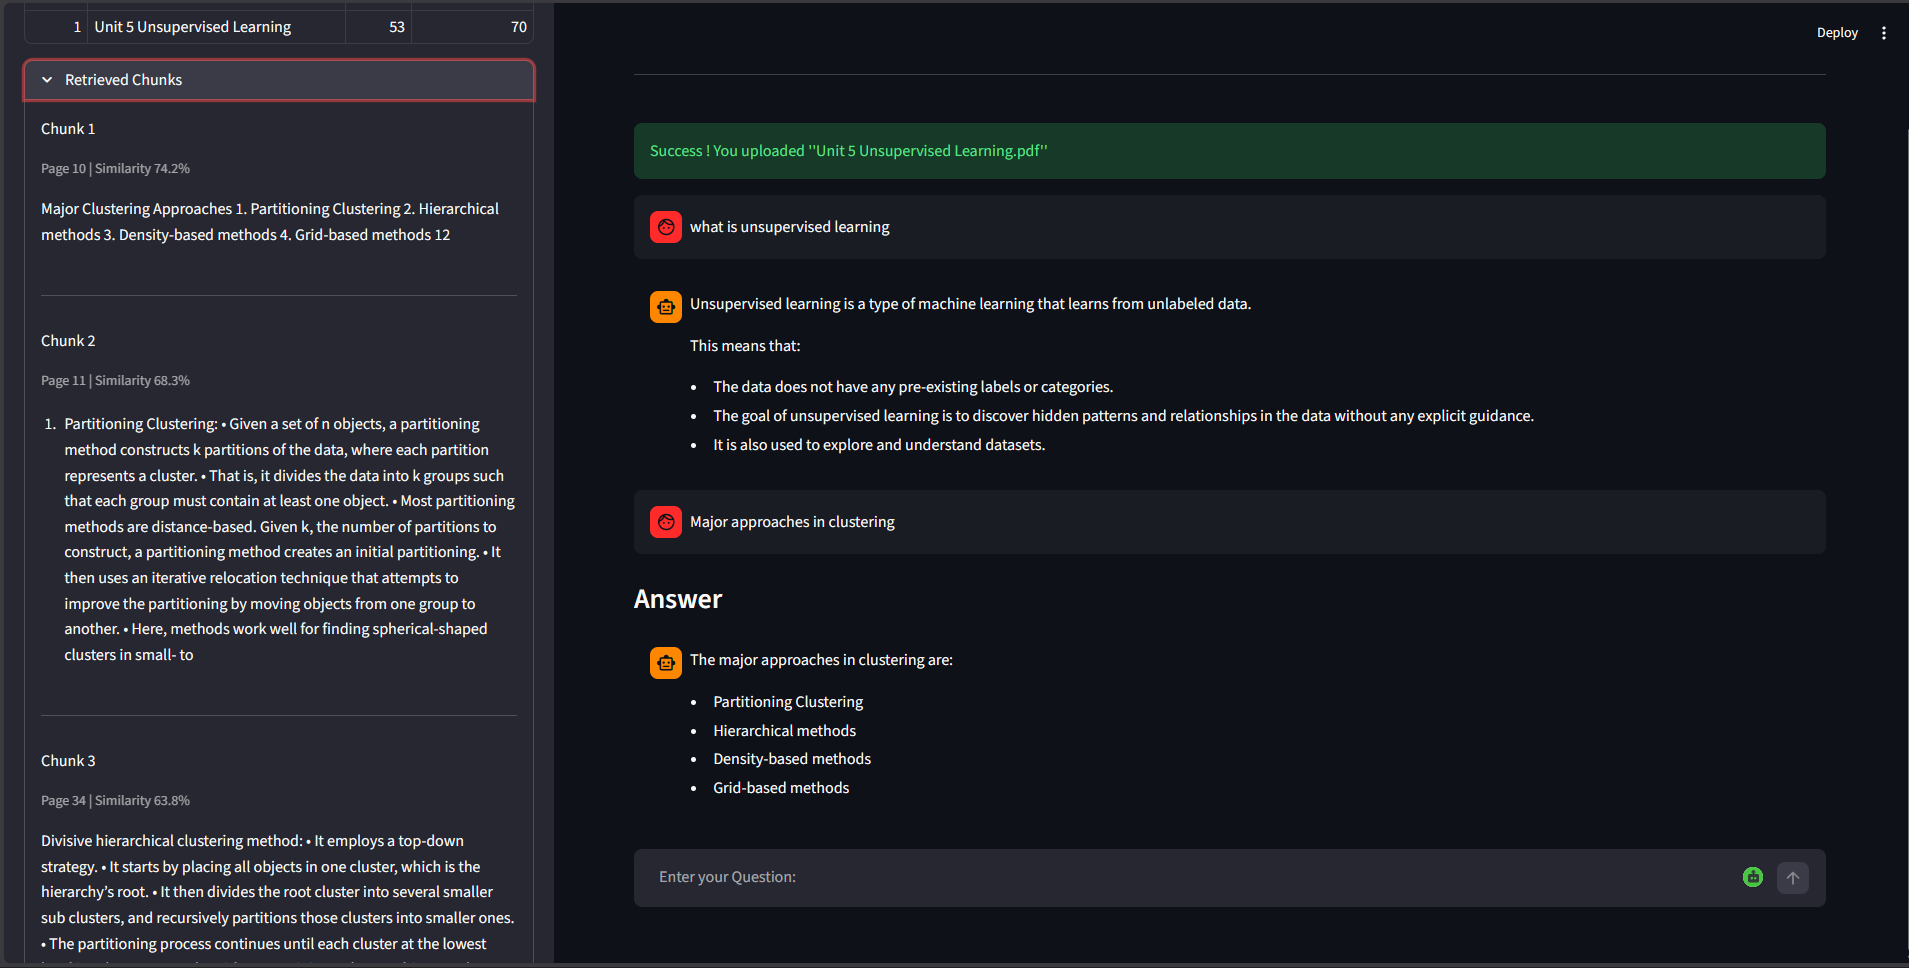
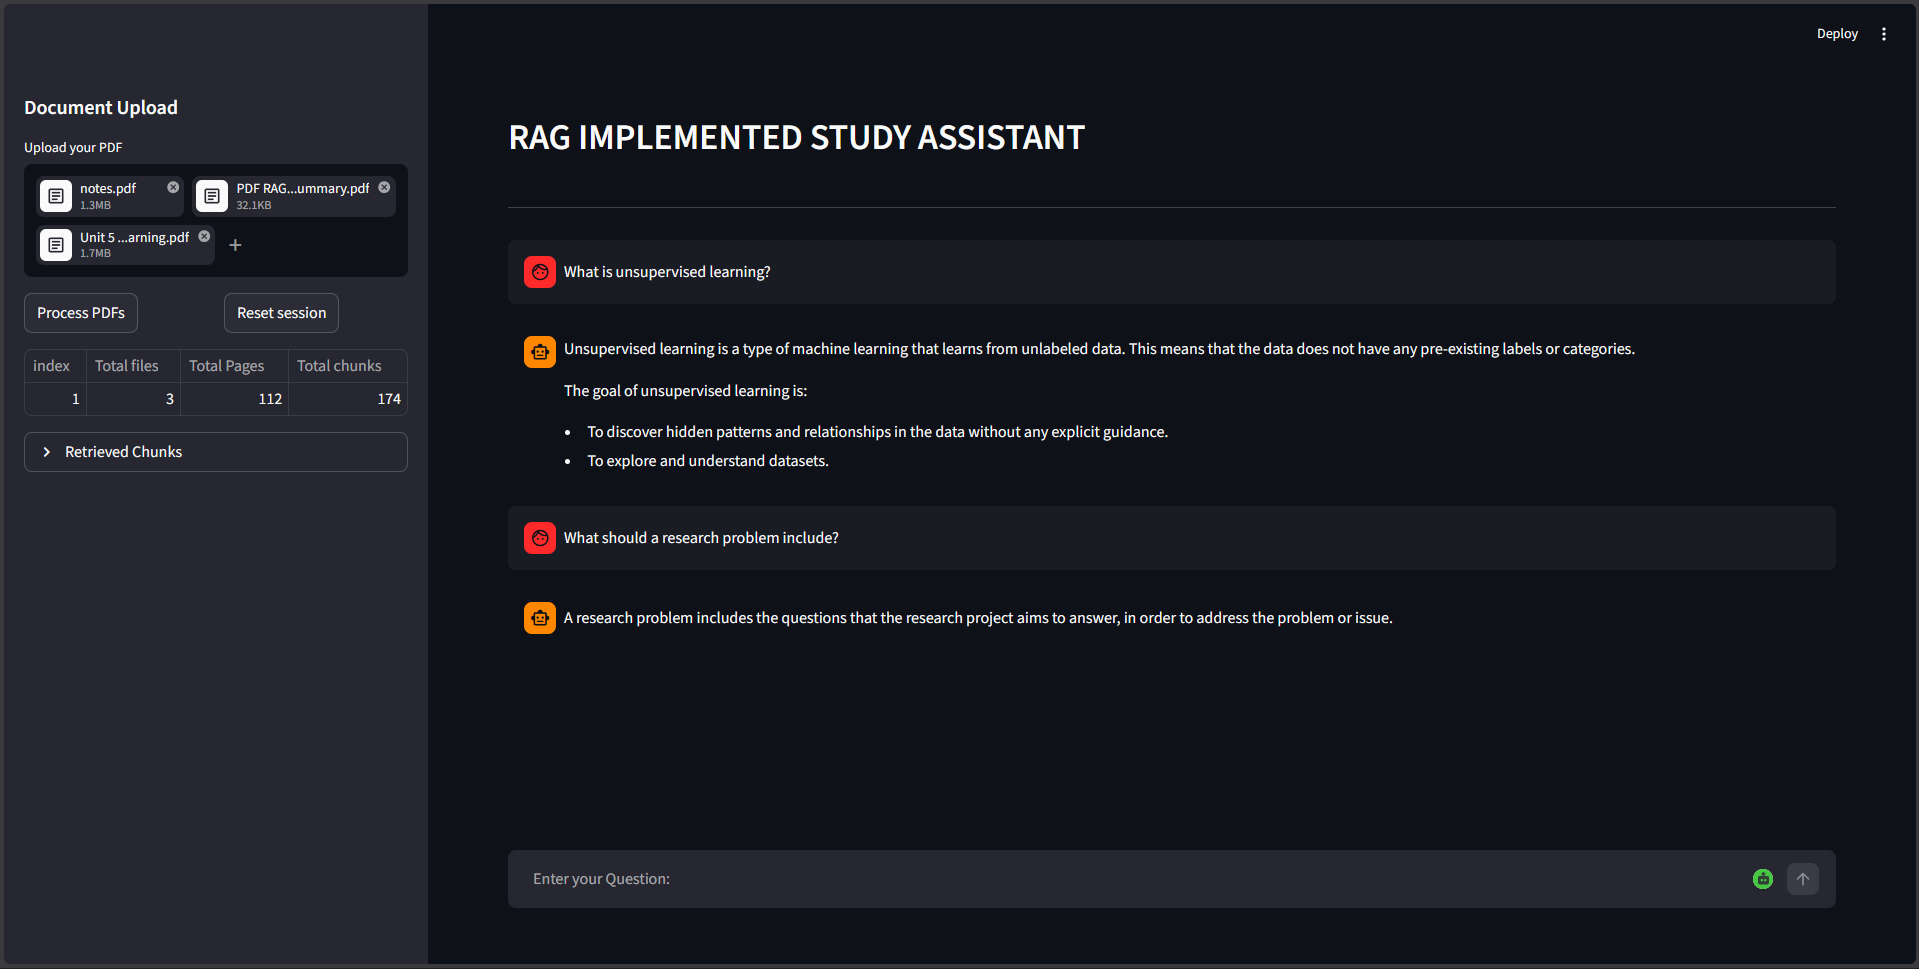
Updated

Changed region(s): [[0.0, 0.0, 0.9581, 1.0], [0.9581, 0.0, 1.0, 0.9917], [0.0309, 0.7748, 0.0927, 0.8368]]

diff --git a/README.md b/README.md
@@ -1,14 +1,10 @@
-# PDF RAG Chatbot (FAISS Version)
+# Multi-PDF RAG Chatbot with FAISS and Gemini
 
-This branch contains the FAISS-powered version of the project.
+A Retrieval-Augmented Generation (RAG) chatbot that allows users to upload and query multiple PDF documents simultaneously. The system uses Sentence Transformers for embeddings, FAISS for vector retrieval, and Gemini 2.5 Flash for answer generation.
 
-For the original manual cosine-similarity implementation, see the `main`branch.
+The chatbot performs semantic search across all uploaded documents, retrieves the most relevant chunks, and generates context-aware answers with document and page references.
 
-## 📌 Project Overview
-
-Built a Retrieval-Augmented Generation (RAG) chatbot from scratch without LangChain using Sentence Transformers, Top-K Retrieval using FAISS (IndexFlatIP), Gemini 2.5 Flash, and Streamlit.
-
-The system converts uploaded PDFs into vector embeddings, retrieves relevant document chunks using semantic search, and generates grounded answers while displaying source pages and retrieval scores for transparency.
+---
 
 ## Why Build Without LangChain?
 
@@ -44,6 +40,7 @@ The system exposes retrieved chunks to the user.
 
 For every answer the application displays:
 
+- Document Name
 - Similarity Score
 - Source Page Number
 - Retrieved Context
@@ -52,21 +49,17 @@ This allows users to verify where information originated before trusting the gen
 
 ## 🚀 Features
 
-* PDF Text Extraction
-* Text Cleaning & Preprocessing
-* Overlapping Text Chunking
-* Semantic Embeddings using Sentence Transformers
-* Vector Storage using NumPy
-* FAISS Vector Indexing
-* Prompt Engineering for Grounded Responses
-* Gemini API Integration
-* Automated PDF Ingestion Pipeline
-* Built Completely Without LangChain
-* Fast Similarity Search
-* Page-Level Source References
-* Similarity Score Display
-* Chat History
-
+- Multi-PDF document upload
+- Unified knowledge base across uploaded PDFs
+- Semantic chunking and embedding generation
+- FAISS IndexFlatIP vector retrieval
+- Cross-document retrieval
+- Document and page-level source tracking
+- Similarity score display
+- Interactive chat interface using Streamlit
+- Retrieved chunk transparency
+- Reset knowledge base functionality
+- Chat history support
 ---
 
 # 🏗️ System Architecture
@@ -75,24 +68,15 @@ This allows users to verify where information originated before trusting the gen
 
 ```text
 PDF Upload
-      │
-      ▼
-Text Extraction
-      │
-      ▼
-Page Metadata Capture
-      │
-      ▼
+↓
+PDF Extraction
+↓
 Chunking
-      │
-      ▼
+↓
 Embedding Generation
-      │
-      ▼
-Store:
-  • Chunk Text
-  • Page Number
-  • Embeddings
+↓
+FAISS Index Creation
+      
 ```
 
 Generated files are stored as:
@@ -100,42 +84,48 @@ Generated files are stored as:
 ```text
 vector_db/
 
-├── document_1/
-│   ├── chunks.json
-│   └── embeddings.npy
-|   └── index.faiss
-│
-├── document_2/
-│   ├── chunks.json
-│   └── embeddings.npy
-|   └── index.faiss
-```
+├── chunks.json
+└── embeddings.npy
+└── index.faiss
 
 ---
 
-## Question Answering Pipeline
+## Retrieval Pipeline
 
-```text
-User Question
-      │
-      ▼
-Query Embedding
-      │
-      ▼
-FAISS (IndexFlatIP)
-      │
-      ▼
-Top-K Retrieval
-      │
-      ▼
-Prompt Construction
-      │
-      ▼
-Gemini LLM
-      │
-      ▼
-Final Answer
-```
+1. Upload one or more PDF documents.
+2. Extract text page-by-page.
+3. Generate overlapping chunks.
+4. Convert chunks into dense vector embeddings.
+5. Build a unified FAISS index.
+6. Convert user query into embedding.
+7. Retrieve Top-K relevant chunks.
+8. Construct context-aware prompt.
+9. Generate answer using Gemini.
+
+---
+
+## Example Retrieval Output
+
+Document: MachineLearning.pdf
+Page: 12
+Similarity: 91.3%
+
+Document: DeepLearning.pdf
+Page: 7
+Similarity: 88.4%
+
+Document: NLP.pdf
+Page: 3
+Similarity: 85.9%
+
+---
+
+## Results
+
+- Supports simultaneous querying across multiple PDF documents.
+- Retrieves the Top-K most relevant chunks using FAISS.
+- Displays source document names, page numbers, and similarity scores.
+- Provides transparent retrieval for easier debugging and evaluation.
 
 ---
 
@@ -144,25 +134,22 @@ Final Answer
 ```text
 RAG_Project/
 
-│── embedding_model.py
-│── gemini_model.py
+RAG-Project/
+│
+├── app.py
+├── ingestion.py
+├── retrieve.py
+├── generate_answer.py
+├── prompt_builder.py
+├── requirements.txt
 │
 ├── vector_db/
+│ ├── chunks.json
+│ ├── embeddings.npy
+│ └── index.faiss
 │
-├── pdf_reader.py
-├── chunking.py
-├── create_embeddings.py
+├── temp/
 │
-├── ingestion.py
-│
-├── retrieve.py
-├── prompt_builder.py
-├── generate_answer.py
-│
-├── ask.py 
-├── app.py
-|
-├── requirements.txt
 └── README.md
 ```
 
@@ -216,7 +203,7 @@ What should a research problem include
 
 ### Step 3: Semantic Retrieval
 
-The query embedding is compared with all document chunk embeddings using Cosine Similarity.
+The query embedding is compared with all document chunk embeddings using FAISS index
 
 ```text
 Query
@@ -255,7 +242,7 @@ Answer
 | Language              | Python                |
 | Embeddings            | Sentence Transformers |
 | Vector Storage        | NumPy                 |
-| Retrieval             | Cosine Similarity     |
+| Retrieval             | Faiss index           |
 | PDF Processing        | PyPDF                 |
 | LLM                   | Google Gemini         |
 | Environment Variables | python-dotenv         |
@@ -344,20 +331,17 @@ A research problem is the first and most important step in the research process.
 
 ---
 
-## 7. Update Future Improvements
+## Future Improvements
 
-```md
-## 🔮 Future Improvements
-
-- Multi-PDF Retrieval
-- Cross-Document Search
-- Source Citations in Answers
+- HNSW Approximate Nearest Neighbor Search
+- Advanced Chunking Strategies
+- Metadata-Based Filtering
 - Conversation Memory
-- Metadata Filtering
-- Retrieval Evaluation Metrics
 - Cloud Deployment
+- Citation-Based Answer Generation
 
 ---
+
 
 # 📚 Learning Outcomes
 
@@ -367,7 +351,6 @@ Key concepts learned:
 
 * Embeddings
 * Vector Search
-* Cosine Similarity
 * Retrieval-Augmented Generation (RAG)
 * Prompt Engineering
 * Semantic Search